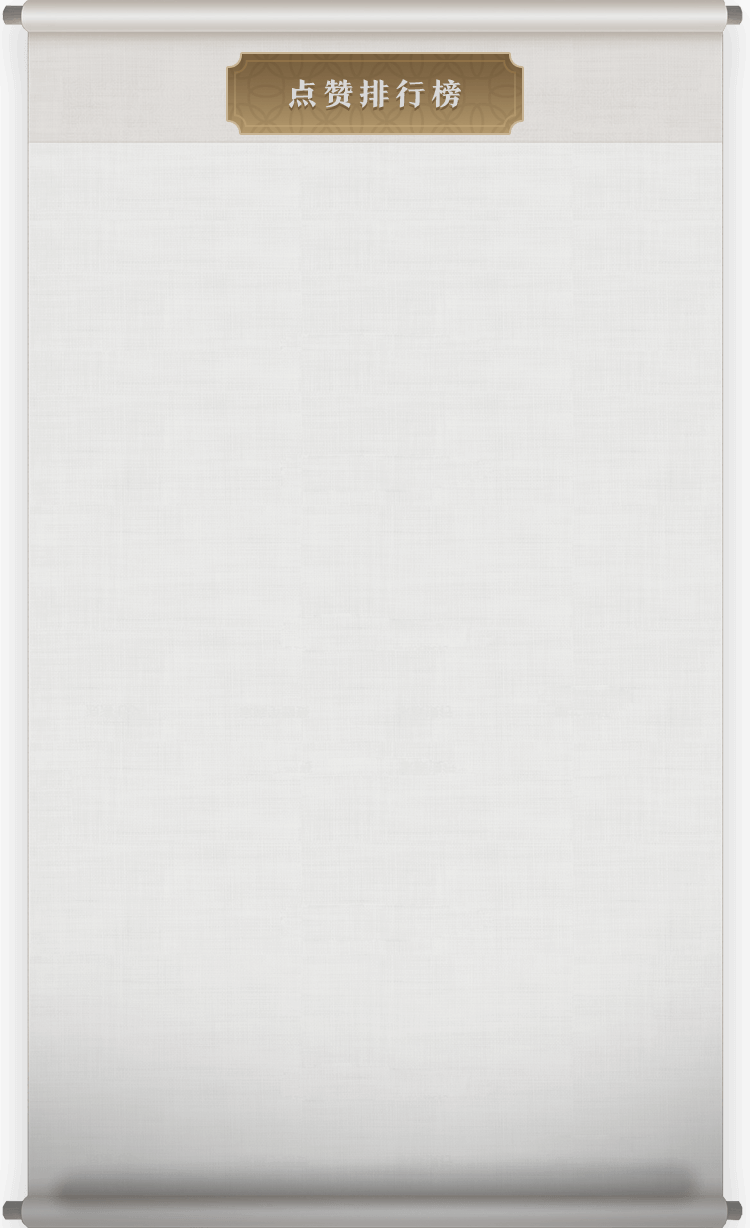
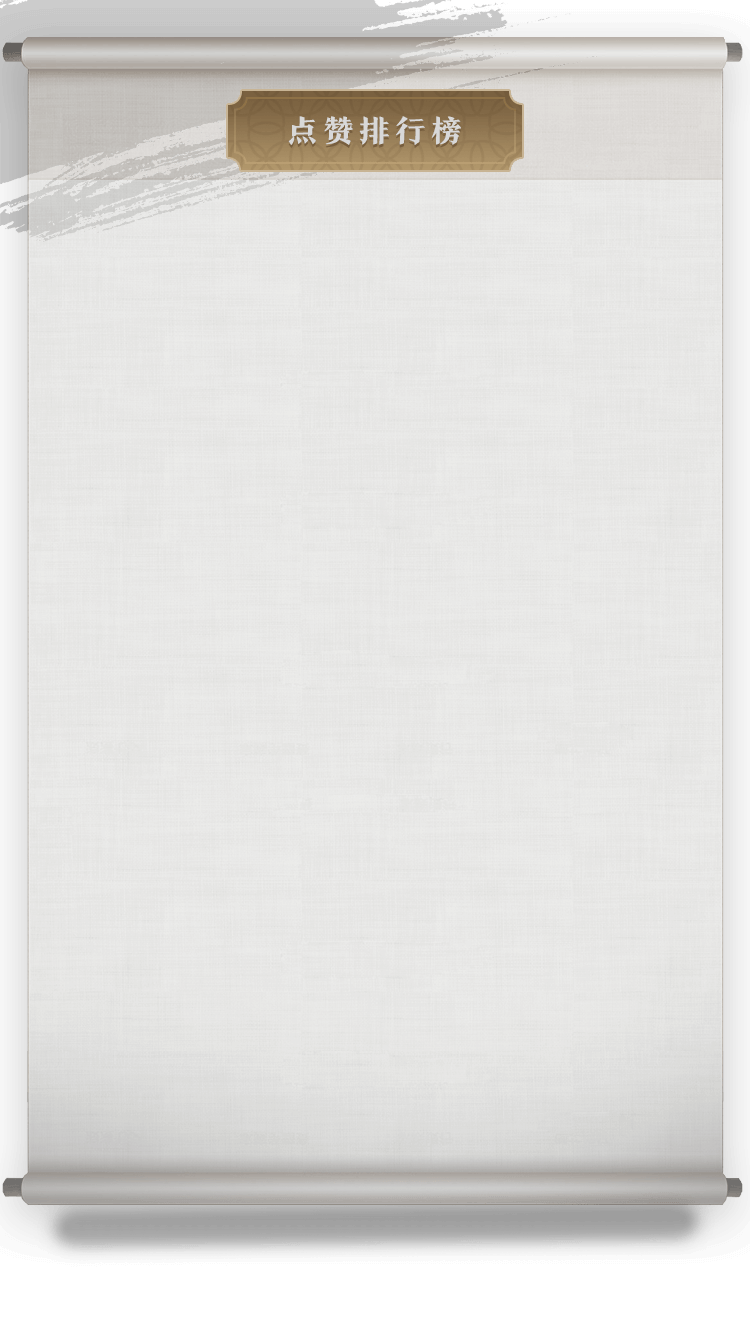
1.0.2

Changed region(s): [[0.0, 0.8664, 1.0, 1.0], [0.0, 0.0, 1.0, 0.1857]]

diff --git a/app/index.html b/app/index.html
@@ -2,6 +2,9 @@
 <html lang="en">
 <head>
     <meta charset="UTF-8">
+    <meta http-equiv="Cache-Control" content="no-cache, no-store, must-revalidate" />
+    <meta http-equiv="Pragma" content="no-cache" />
+    <meta http-equiv="Expires" content="0" />
     <title>Title</title>
     <link rel="stylesheet" href="css/public.css" />
 </head>
@@ -117,7 +120,7 @@ $(function(){
     //var mark=getUrlParam('mark');
     if(mark!=0){
         $('#whiteModal').show();
-        alert('非参会人员无法进入');
+        alert('您还没有查看CET 2019通讯录的权限，请联系会务组。');
         window.location.href="https://www.lenovo.com.cn/";
     }else{
         $('#whiteModal').hide();
@@ -156,7 +159,7 @@ $(function(){
                         }
                     })
                 }else{
-                    alert('请不要重复点赞');
+                    alert('您已经点过赞了。');
                 }
             })
             $('#sendcomment').click(function(){
@@ -180,7 +183,7 @@ $(function(){
                         }
                     })
                 }else{
-                    alert('发送内容不能为空');
+                    alert('请输入您想评论的内容。');
                 }
             })
             $("#sendText").on("blur",function(){
@@ -195,9 +198,7 @@ $(function(){
                 }
                 arr.splice(36-1, 1);
                 arr.splice(39-2, 1);
-                //console.log(arr);
                 var index=arr[Math.floor((Math.random()*arr.length))];
-                //console.log(index)
                 window.location.href='http://testpc.zui.com/profile/'+index;
                 //window.location.href='http://localhost:8088/?cid='+index+'&openid=oLHCTjjD7Irw4xJH1NinWaILJrgk';
 

diff --git a/app/css/public.css b/app/css/public.css
@@ -66,10 +66,8 @@ top:0.533rem  /* 40/75 */;right:0.427rem  /* 32/75 */;}
 /*排行榜*/
 .p-bg1 { width:100%;height:100%  /* 1334/75 */;background-position: bottom center; background: #cfcfcf url("../images/bg.jpg") no-repeat bottom center;
  background-size: 100%;overflow-y:scroll; }
-.p-bg1 .scroll-box{width:10rem  /* 750/75 */;height:16.373rem  /* 1228/75 */;margin:0 auto;position: absolute;
- top: 50%;
- left: 50%;  margin-left:-5rem;margin-top:-8.187rem  /* -614/75 */;}
-.p-bg1 .scroll-box .pList-box{width:7.933rem  /* 595/75 */;height:12.667rem  /* 950/75 */;margin:2.333rem  auto;  /* 175/75 */  /* 210/75 */;}
+.p-bg1 .scroll-box{width:10rem  /* 750/75 */;height:17.787rem  /* 1334/75 */ ;}
+.p-bg1 .scroll-box .pList-box{width:7.933rem  /* 595/75 */;height:12.667rem  /* 950/75 */;margin:0 auto;margin-top:2.8rem  /* 210/75 */;}
 .p-bg1 .scroll-box .pList-box li{width:6.133rem ;padding-left:1.8rem  /* 135/75 */;
  height:1.133rem  /* 85/75 */;margin-bottom:0.133rem  /* 10/75 */;line-height: 1.133rem  /* 85/75 */;}
 .p-bg1 .scroll-box .pList-box li div{float:left}
@@ -82,3 +80,5 @@ font-size:0.267rem;}
 .nich{width:1.6rem  /* 120/75 */;font-size:0.267rem  /* 20/75 */;float:left;}
 .jidu{width:2.667rem  /* 200/75 */;height:0.267rem  /* 20/75 */;float:right;border-radius: 0.133rem  /* 10/75 */;background-image: linear-gradient(to right, #b89e71 , #7b6341);}
 .zanImg{width:0.493rem  /* 37/75 */;height:0.44rem  /* 33/75 */;margin-top: -0.2rem;}
+.go-back-box{width:2.453rem  /* 184/75 */;height:0.8rem  /* 60/75 */;margin:0 auto;margin-top:1.067rem  /* 80/75 */;}
+#goBack{width:2.453rem  /* 184/75 */;height:0.8rem  /* 60/75 */;}

diff --git a/app/rankList.html b/app/rankList.html
@@ -2,6 +2,9 @@
 <html lang="en">
 <head>
     <meta charset="UTF-8">
+    <meta http-equiv="Cache-Control" content="no-cache, no-store, must-revalidate" />
+    <meta http-equiv="Pragma" content="no-cache" />
+    <meta http-equiv="Expires" content="0" />
     <title>排行榜</title>
     <link rel="stylesheet" href="css/public.css" />
 </head>
@@ -9,7 +12,14 @@
 <div class="m-section p-bg1 lazy">
     <div class="m-section scroll-box lazy" data-original="images/scroll.png">
         <ul class="pList-box">
+            <li class="m-section lazy clearfix" data-original="images/pli1.png">
+                <div class="box1"><img src="images/toux.png" alt="" class="toux"></div>
+                <div class="box2">昵称</div>
+                <div class="box3"><span class="jidu"></span></div>
+                <div class="box4"><img src="images/zan-1.png" alt="" class="zanImg"></div>
+            </li>
         </ul>
+        <div class="go-back-box"><img src="images/goBack.png" alt="" id="goBack"></div>
     </div>
 </div>
 <script src="js/jquery-2.1.4.min.js"></script>
@@ -22,6 +32,9 @@ $(function(){
         threshold : 400,
         placeholder:'js/transparent.gif'
     });
+    $('#goBack').click(function(){
+        window.history.go(-1);
+    })
     $.ajax({
         url:"http://testpc.zui.com/rank",
         type:'get',

diff --git a/app/activityPlan.html b/app/activityPlan.html
@@ -2,6 +2,9 @@
 <html lang="en">
 <head>
     <meta charset="UTF-8">
+    <meta http-equiv="Cache-Control" content="no-cache, no-store, must-revalidate" />
+    <meta http-equiv="Pragma" content="no-cache" />
+    <meta http-equiv="Expires" content="0" />
     <title>Title</title>
     <link rel="stylesheet" href="css/public.css" />
 </head>
